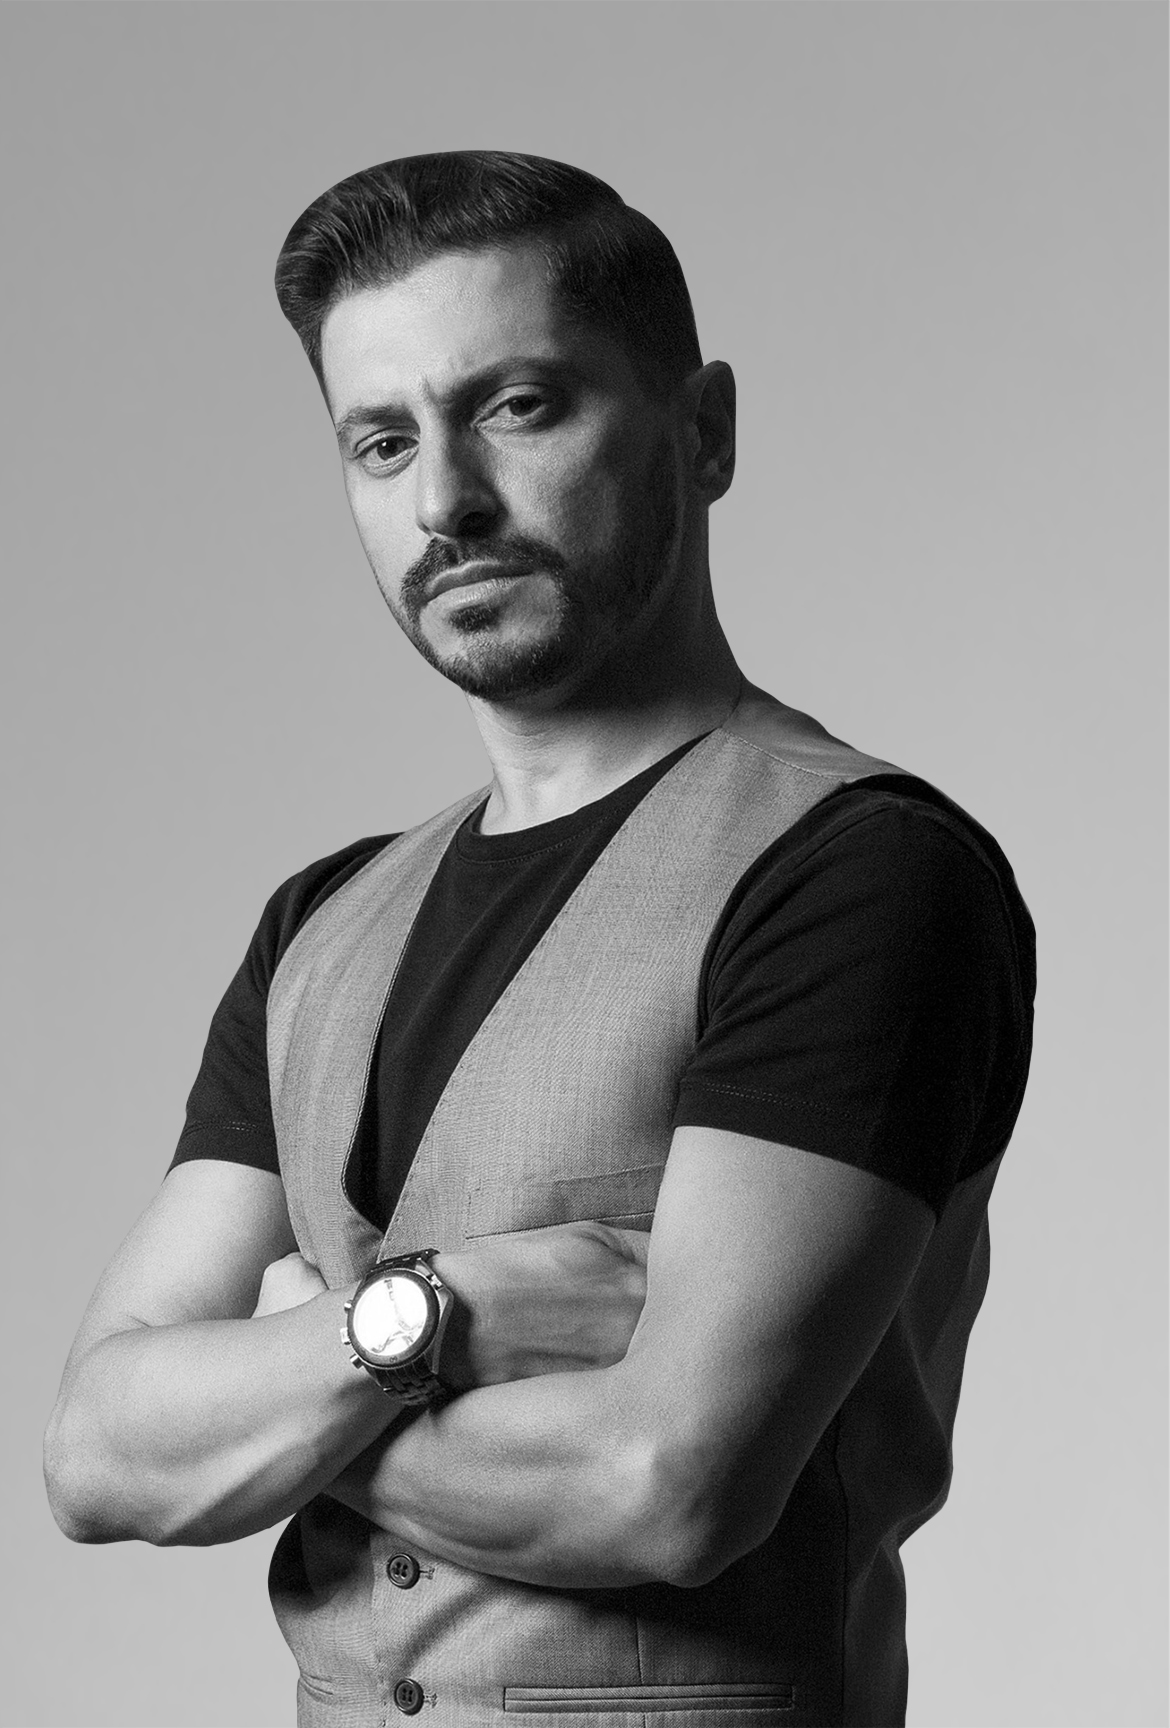
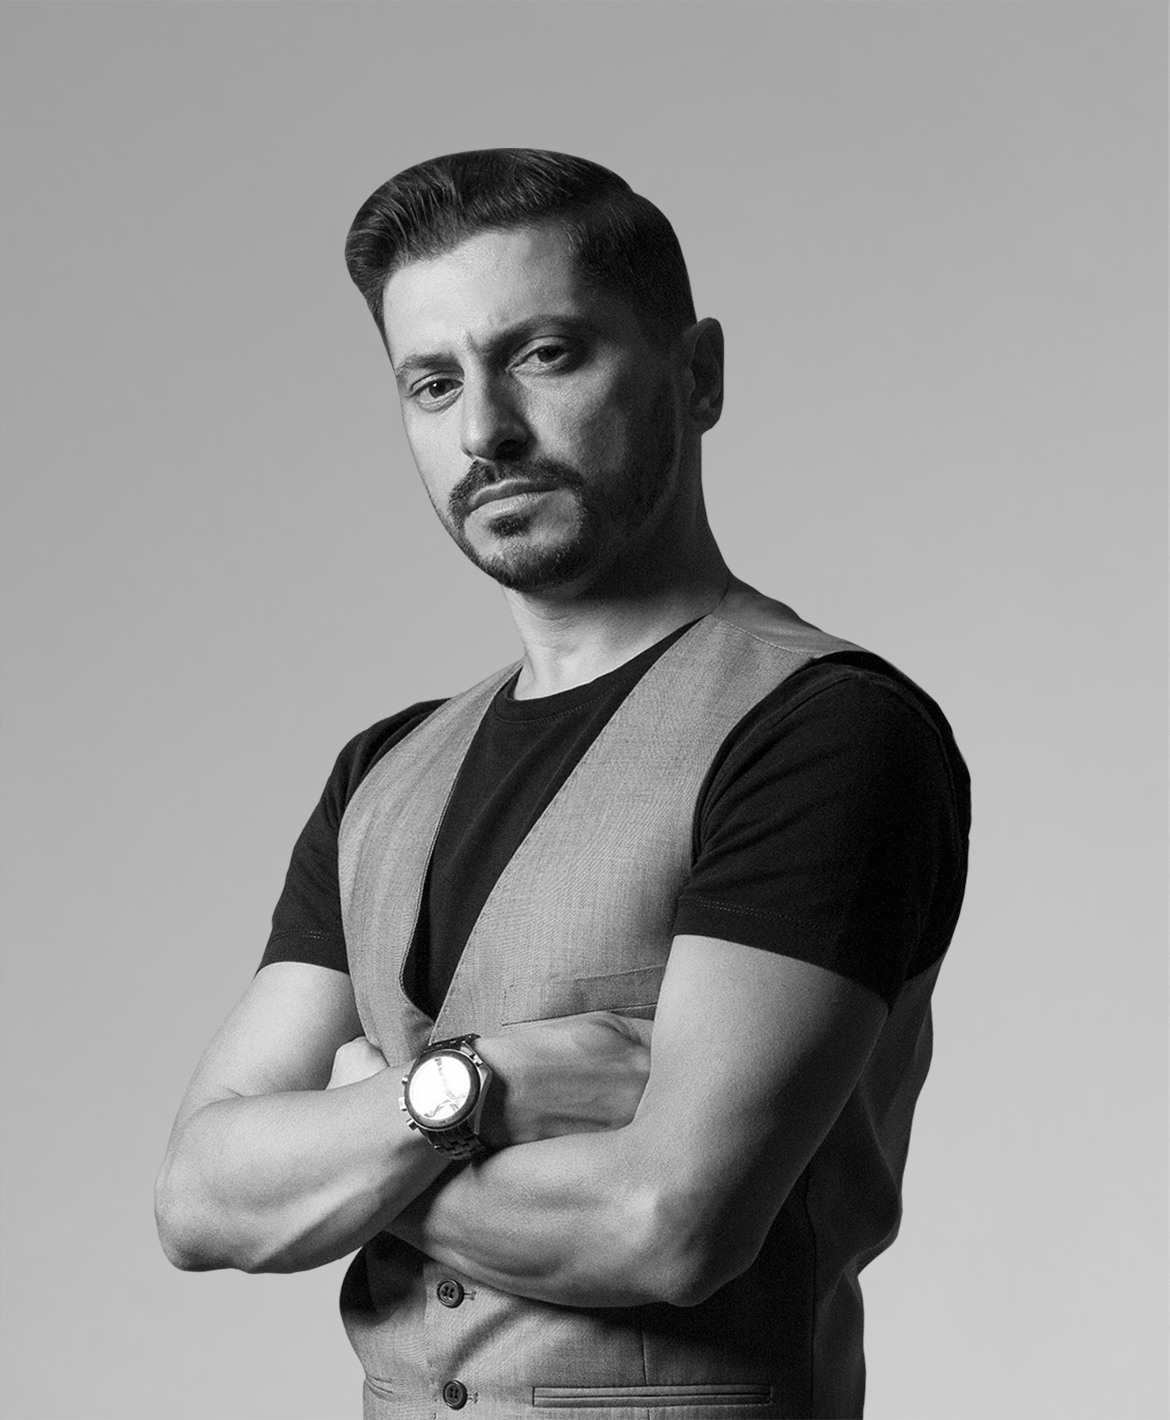
final responsive changes

diff --git a/src/components/artwork-info/artwork-info.scss b/src/components/artwork-info/artwork-info.scss
@@ -39,6 +39,7 @@
     flex-direction: column;
     justify-content: center;
     gap: 20px;
+    margin-bottom: 20px;
 
     @include desktop {
         margin-left: 30px;
@@ -292,7 +293,7 @@
     background: transparent;
     color: black;
     font-family: "Roboto";
-    font-size: 2.5rem;
+    font-size: 2.3rem;
     font-weight: 100;
     cursor: pointer;
     margin-right: auto;

diff --git a/src/data/artworks-data.js b/src/data/artworks-data.js
@@ -45,7 +45,7 @@ export const ARTWORKS = [
         artist: "Sal",
         technique: "Black ink on paper",
         year: "2012",
-        dimensions: "40 x 30cm",
+        dimensions: "30 x 40cm",
         country: "Greece",
         edition: "Unique piece (1/1)",
         signed: "Yes",
